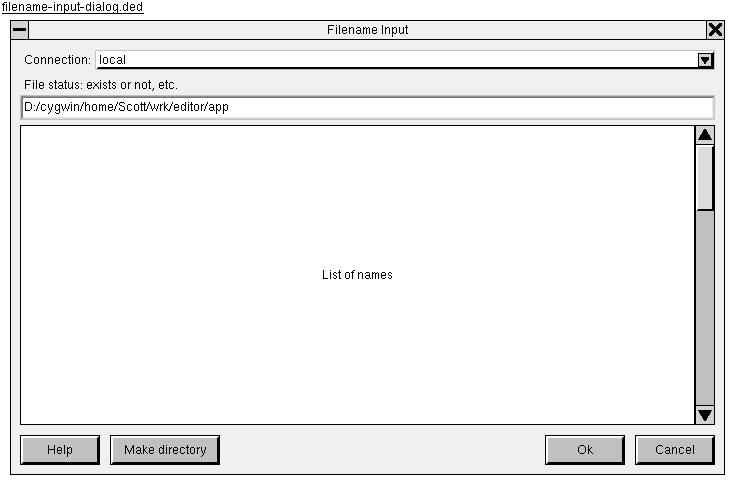
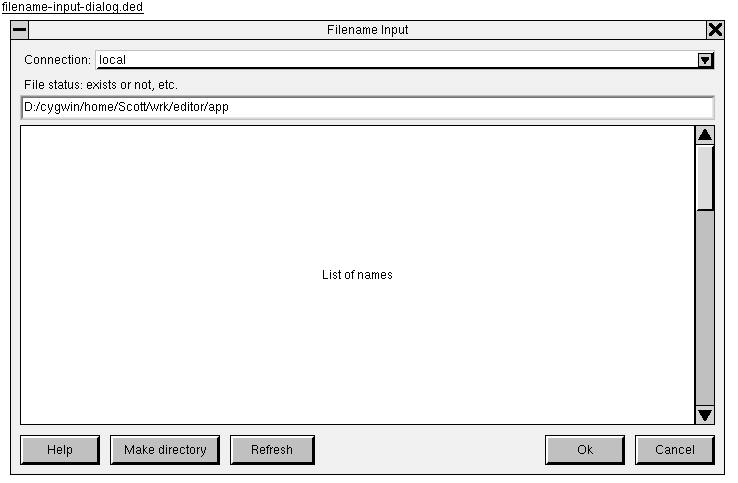
filename-input: Add "Refresh" button.
event-replay: Add "CheckTextEditText" and "WriteFileContents" commands.

Changed region(s): [[0.3117, 0.9006, 0.4363, 0.9627]]

diff --git a/doc/filename-input-dialog-spec.html b/doc/filename-input-dialog-spec.html
@@ -161,6 +161,11 @@ Along the bottom edge of the dialog are these buttons:
         a slash into <code>filename</code> will traverse into the newly
         created directory.
 
+<dt>Refresh
+
+    <dd>Refresh the file list by re-querying the server, bypassing any
+        previously cached data.
+
 <dt>Ok
 
     <dd>Behaves as described under <a href="#ok_button">Ok button</a>.
@@ -229,12 +234,13 @@ indicator.  TODO: Perhaps reconcile them.
 
     <ul>
     <li>Alt+C: Focus on <code>connection</code> dropdown.
-    <li>Alt+H: Activate help button.
+    <li>Alt+H: Activate Help button.
     <li>Alt+M: Activate Make directory button.
+    <li>Alt+R: Activate Refresh button.
     <li>Tab: Move to next control, except if focus is on
         <code>filename</code>.
     <li>Shift+Tab: Move to previous control.
-    <li>Esc: Activate cancel button.
+    <li>Esc: Activate Cancel button.
     </ul>
 
 </ul>

diff --git a/filename-input.cc b/filename-input.cc
@@ -36,6 +36,9 @@
 #include <QVBoxLayout>
 
 
+// TODO: Replace "NULL" with "nullptr" everywhere.
+
+
 FilenameInputDialog::History::History()
   : m_dialogSize(800, 800)
 {}
@@ -59,6 +62,7 @@ FilenameInputDialog::FilenameInputDialog(
   m_completionsEdit(NULL),
   m_helpButton(NULL),
   m_makeDirectoryButton(NULL),
+  m_refreshButton(NULL),
   m_vfsConnections(vfsConnections),
   m_hostNameList(),
   m_currentHostName(HostName::asLocal()),
@@ -137,6 +141,12 @@ FilenameInputDialog::FilenameInputDialog(
     SET_QOBJECT_NAME(m_makeDirectoryButton);
     QObject::connect(m_makeDirectoryButton, &QPushButton::clicked,
                      this, &FilenameInputDialog::on_makeDirectory);
+
+    m_refreshButton = new QPushButton("&Refresh");
+    hbox->addWidget(m_refreshButton);
+    SET_QOBJECT_NAME(m_refreshButton);
+    QObject::connect(m_refreshButton, &QPushButton::clicked,
+                     this, &FilenameInputDialog::on_refresh);
 
     hbox->addStretch(1);
 
@@ -585,6 +595,20 @@ bool FilenameInputDialog::eventFilter(QObject *watched, QEvent *event)
 }
 
 
+std::string FilenameInputDialog::eventReplayQuery(
+  std::string const &state)
+{
+  if (state == "currentRequestDir") {
+    return m_currentRequestDir;
+  }
+
+  else {
+    // Complain about unknown state.
+    return EventReplayQueryable::eventReplayQuery(state);
+  }
+}
+
+
 bool FilenameInputDialog::wantResizeEventsRecorded()
 {
   return true;
@@ -694,9 +718,23 @@ void FilenameInputDialog::on_makeDirectory() NOEXCEPT
     // Success; refresh the directory contents.
     TRACE("FilenameInputDialog",
       "Directory created successfully.");
-    m_cachedDirectory.clear();
-    queryDirectoryIfNeeded();
+    on_refresh();
   }
+
+  GENERIC_CATCH_END
+}
+
+
+void FilenameInputDialog::on_refresh() NOEXCEPT
+{
+  GENERIC_CATCH_BEGIN
+
+  TRACE("FilenameInputDialog", "on_refresh");
+
+  m_cachedDirectory.clear();
+  m_completionsEdit->setPlainText("Loading ...");
+
+  queryDirectoryIfNeeded();
 
   GENERIC_CATCH_END
 }

diff --git a/event-replay.cc b/event-replay.cc
@@ -52,6 +52,7 @@
 #include <QStringList>
 #include <QTableWidget>
 #include <QTableWidgetItem>
+#include <QTextEdit>
 #include <QTimer>
 #include <QWidget>
 
@@ -143,6 +144,8 @@ EventReplay::~EventReplay()
 
 
 // Throw a string built using 'stringb'.
+//
+// TODO: FIX: This does not capture the exception context info.
 #define xstringb(msg) throw stringb(msg) /* user ; */
 
 
@@ -508,6 +511,7 @@ void EventReplay::replayCall(GDValue const &command)
   }
 
   else if (funcName == "WaitUntilCheckQuery") {
+    // TODO: Accept an integer here.
     BIND_STRING_ARGS4(duration, receiver, state, expect);
 
     this->waitUntilCheckQuery(
@@ -553,6 +557,15 @@ void EventReplay::replayCall(GDValue const &command)
     QLineEdit *lineEdit = getObjectFromPath<QLineEdit>(path);
     string actual = toString(lineEdit->text());
     CHECK_EQ("CheckLineEditText " << doubleQuote(path));
+  }
+
+  else if (funcName == "CheckTextEditText") {
+    auto [path, expect] =
+      gdvpToTuple<std::string, std::string>(parser);
+
+    auto *textEdit = getObjectFromPath<QTextEdit>(path);
+    string actual = toString(textEdit->toPlainText());
+    CHECK_EQ("CheckTextEditText " << doubleQuote(path));
   }
 
   else if (funcName == "CheckListWidgetCount") {
@@ -756,11 +769,18 @@ void EventReplay::replayCall(GDValue const &command)
   }
 
   else if (funcName == "CheckFileContents") {
-    auto [path, expect] =
+    auto [fname, expect] =
       gdvpToTuple<std::string, std::string>(parser);
 
-    string actual = SMFileUtil().readFileAsString(path);
-    CHECK_EQ("CheckFileContentsSize " << doubleQuote(path));
+    string actual = SMFileUtil().readFileAsString(fname);
+    CHECK_EQ("CheckFileContentsSize " << doubleQuote(fname));
+  }
+
+  else if (funcName == "WriteFileContents") {
+    auto [fname, contents] =
+      gdvpToTuple<std::string, std::string>(parser);
+
+    SMFileUtil().writeFileAsString(fname, contents);
   }
 
   else {

diff --git a/filename-input.h b/filename-input.h
@@ -87,6 +87,7 @@ private:     // data
   // Buttons.
   QPushButton *m_helpButton;
   QPushButton *m_makeDirectoryButton;
+  QPushButton *m_refreshButton;
 
   // ---- vfs access state ----
   // Interface to issue VFS queries.
@@ -195,6 +196,7 @@ public:      // funcs
   virtual bool eventFilter(QObject *watched, QEvent *event) OVERRIDE;
 
   // EventReplayQueryable methods.
+  virtual std::string eventReplayQuery(std::string const &state) OVERRIDE;
   virtual bool wantResizeEventsRecorded() OVERRIDE;
 
 public Q_SLOTS:
@@ -203,6 +205,7 @@ public Q_SLOTS:
   void on_textEdited(QString const &) NOEXCEPT;
   void on_help() NOEXCEPT;
   void on_makeDirectory() NOEXCEPT;
+  void on_refresh() NOEXCEPT;
 
   // VFS_Connections slots.
   void on_vfsReplyAvailable(VFS_Connections::RequestID requestID) NOEXCEPT;
